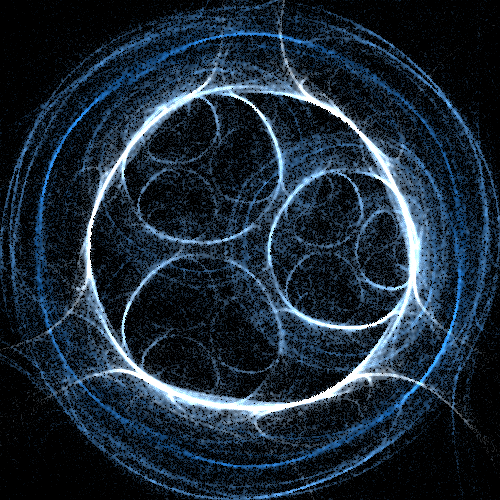
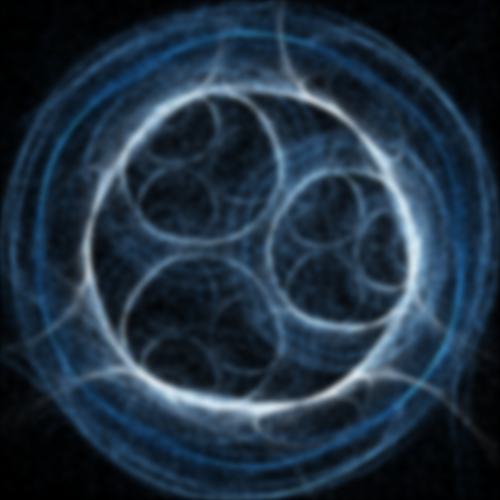
Fixed rendering system and got blur working

diff --git a/flame_fractal.py b/flame_fractal.py
@@ -89,8 +89,12 @@ class FlameFractal:
     #functionColors = [[0,120,255],[0, 255, 120], [255,120,0]]
 
     solutionSet = [] # verbatim points that chaos game returns
-
     points = []
+
+    image = []
+    filteredImage = []
+    #finalImage = []
+    
     adjustedpoints = []
 
     # NOTE: use ff. prefix to all functions added to generator commands (for
@@ -143,7 +147,35 @@ class FlameFractal:
         #return r*255, g*255, b*255
         return r, g, b
 
-    def plot(self, x, y, c):
+    def plot(self):
+        self.preparePlot()
+        print("Plotting solution...")
+
+        for point in self.solutionSet:
+            x = int(point[0])
+            y = int(point[1])
+            
+            if x < 0 or x > self.gen.imgWidth - 1 or y < 0 or y > self.gen.imgHeight - 1: continue
+            
+            self.plotPoint(int(point[0]), int(point[1]), point[2])
+
+    def solutionSetTransform(self):
+        #f = Function()
+        #f.a = 200
+        #f.d = 200
+        #f.v[0] = 1.
+
+        print("Transforming solution...")
+        for i in range(0, len(self.solutionSet)):
+            #x, y = f.run(self.solutionSet[i][0], self.solutionSet[i][1])
+            x = self.solutionSet[i][0] * 200 + 250
+            y = self.solutionSet[i][1] * 200 + 250
+            self.solutionSet[i][0] = x
+            self.solutionSet[i][1] = y
+
+        print("Affine transformation complete!")
+
+    def plotPoint(self, x, y, c):
         # check if already exists
         #for point in self.points:
             #if x == point[0] and y == point[1]:
@@ -153,6 +185,7 @@ class FlameFractal:
         #self.points.append([x, y, 1])
         color = self.colorMap(c)
         #print(str(color)) # DEBUG
+        #print("Plotting (" + str(x) + "," + str(y) + ")") # DEBUG
         self.points[y][x][0] += color[0]
         self.points[y][x][1] += color[1]
         self.points[y][x][2] += color[2]
@@ -186,10 +219,10 @@ class FlameFractal:
         g = 0
         b = 0
         
-        if y < len(self.points) and y >= 0 and x < len(self.points[y]) and x >= 0:
-            r = self.points[y][x][0]*factor
-            g = self.points[y][x][1]*factor
-            b = self.points[y][x][2]*factor
+        if y < len(self.image) and y >= 0 and x < len(self.image[y]) and x >= 0:
+            r = self.image[y][x][0]*factor
+            g = self.image[y][x][1]*factor
+            b = self.image[y][x][2]*factor
 
         return r, g, b
 
@@ -203,7 +236,7 @@ class FlameFractal:
 
         #print("original: " + str(self.points[y][x][2]))
 
-        original = [self.points[y][x][0], self.points[y][x][1], self.points[y][x][2]]
+        #original = [self.points[y][x][0], self.points[y][x][1], self.points[y][x][2]]
         #print("original: " + str(original))
 
         
@@ -230,12 +263,13 @@ class FlameFractal:
         #g = min(1., g)
         #b = min(1., b)
         
+        return r, g, b
 
-        self.adjustedpoints[y][x][0] = r
-        self.adjustedpoints[y][x][1] = g
-        self.adjustedpoints[y][x][2] = b
+        #self.adjustedpoints[y][x][0] = r
+        #self.adjustedpoints[y][x][1] = g
+        #self.adjustedpoints[y][x][2] = b
         
-        nonoriginal = [self.points[y][x][0], self.points[y][x][1], self.points[y][x][2]]
+        #nonoriginal = [self.points[y][x][0], self.points[y][x][1], self.points[y][x][2]]
         #print("points now: " + str(nonoriginal))
 
         #print("original: " + str(self.points[y][x][2]) + "adjusted: " + str(self.adjustedpoints[y][x][2]))
@@ -243,8 +277,8 @@ class FlameFractal:
         #if self.adjustedpoints[y][x][2] != self.points[y][x][2]:
             #print("Was a change at (" + str(x) + "," + str(y) + ")")
 
-        if self.adjustedpoints[y][x][2] == 0 and self.points[y][x][3] != 0:
-            print("WARNING - something was zeroed...")
+        #if self.adjustedpoints[y][x][2] == 0 and self.points[y][x][3] != 0:
+            #print("WARNING - something was zeroed...")
 
         #if r > 0 or g > 0 or b > 0:
             #print("setting (" + str(x) + "," + str(y) + ") to " + str(r) + " " + str(g) + " " + str(b)) # DEBUG
@@ -256,6 +290,15 @@ class FlameFractal:
             self.adjustedpoints[y][x][1] += g*factor
             self.adjustedpoints[y][x][2] += b*factor
 
+    def copy3DArray(self, array):
+        copy = []
+        for y in range(0, len(array)):
+            copy.append([])
+            for x in range(0, len(array[y])):
+                copy[y].append([])
+                for val in array[y][x]:
+                    copy[y][x].append(val)
+        return copy 
             
     def render(self, gamma=1.0, brightness=1.0):
         print("Rendering... (gamma = " + str(gamma) + ")") 
@@ -267,14 +310,14 @@ class FlameFractal:
         totalPoints = 0
         avgSpots = 0
 
-        self.adjustedpoints = []
+        #self.adjustedpoints = []
         
         for y in range(0, len(self.points)):
-            self.adjustedpoints.append([])
+            #self.adjustedpoints.append([])
             for x in range(0, len(self.points[y])):
-                self.adjustedpoints[y].append([])
-                for val in self.points[y][x]:
-                    self.adjustedpoints[y][x].append(val)
+                #self.adjustedpoints[y].append([])
+                #for val in self.points[y][x]:
+                    #self.adjustedpoints[y][x].append(val)
                 
                 count = self.points[y][x][3]
                 if count > 1:
@@ -288,55 +331,19 @@ class FlameFractal:
         print("Brightness scalar: " + str(brightnessScalar))
 
         print("Second pass...")
-        
 
-        #self.adjustedpoints = self.points[:]
-        #self.adjustedpoints = list(self.points)
-
-
-
-        
-        #matrix = self.calculateConvolutionMatrix(4,3)
-        matrix = self.calculateConvolutionMatrix(2,.84)
-        print(str(matrix)) # DEBUG
-        for y in range(0, len(self.points)):
-            for x in range(0, len(self.points[y])):
-                #count = self.points[y][x][3]
-                #r = self.points[y][x][0]
-                #g = self.points[y][x][1]
-                #b = self.points[y][x][2]
-
-                self.filterPoint(x, y, matrix)
-
-                
-
-                #self.adjustpoint(x, y - 2, r, g, b, .1)
-                #self.adjustpoint(x, y + 2, r, g, b, .1)
-                #self.adjustpoint(x + 2, y, r, g, b, .1)
-                #self.adjustpoint(x - 2, y, r, g, b, .1)
-                #self.adjustpoint(x, y - 1, r, g, b, .2)
-                #self.adjustpoint(x, y + 1, r, g, b, .2)
-                #self.adjustpoint(x + 1, y, r, g, b, .2)
-                #self.adjustpoint(x - 1, y, r, g, b, .2)
-                ##self.adjustpoint(x, y, r, g, b, .7)
-
-                #self.adjustedpoints[y][x][0] *= .7
-                #self.adjustedpoints[y][x][1] *= .7
-                #self.adjustedpoints[y][x][2] *= .7
-
-        print("Third pass...")
-                
+        self.image = self.copy3DArray(self.points)
         
         for y in range(0, len(self.points)):
             for x in range(0, len(self.points[y])):
                 count = self.points[y][x][3]
-                #r = self.points[y][x][0]
-                #g = self.points[y][x][1]
-                #b = self.points[y][x][2]
+                r = self.points[y][x][0]
+                g = self.points[y][x][1]
+                b = self.points[y][x][2]
                 
-                r = self.adjustedpoints[y][x][0]
-                g = self.adjustedpoints[y][x][1]
-                b = self.adjustedpoints[y][x][2]
+                #r = self.adjustedpoints[y][x][0]
+                #g = self.adjustedpoints[y][x][1]
+                #b = self.adjustedpoints[y][x][2]
 
                 
                 #print(str(x) + "," + str(y) + " - " + str(count))
@@ -372,8 +379,67 @@ class FlameFractal:
                     #print(str(count))
                     #value = int(math.log(count)*75)
                     #value = 255
-                    self.gen.imgArray[y][x] = np.array([r, g, b, 255])
+                    #self.gen.imgArray[y][x] = np.array([r, g, b, 255])
+                    self.image[y][x] = [r, g, b, 255]
+
+                    
                 #value = int(math.log(self.points[x][y] * 
+
+
+
+        print("Third pass...")
+
+        self.filteredImage = self.copy3DArray(self.image)
+
+        
+
+        #self.adjustedpoints = self.points[:]
+        #self.adjustedpoints = list(self.points)
+
+
+
+        
+        #matrix = self.calculateConvolutionMatrix(4,3)
+        #matrix = self.calculateConvolutionMatrix(2,.84)
+        matrix = self.calculateConvolutionMatrix(8,3)
+        print(str(matrix)) # DEBUG
+        for y in range(0, len(self.image)):
+            for x in range(0, len(self.image[y])):
+                #count = self.points[y][x][3]
+                #r = self.points[y][x][0]
+                #g = self.points[y][x][1]
+                #b = self.points[y][x][2]
+
+                r, g, b = self.filterPoint(x, y, matrix)
+
+                self.filteredImage[y][x][0] = r
+                self.filteredImage[y][x][1] = g
+                self.filteredImage[y][x][2] = b
+                
+
+                #self.adjustpoint(x, y - 2, r, g, b, .1)
+                #self.adjustpoint(x, y + 2, r, g, b, .1)
+                #self.adjustpoint(x + 2, y, r, g, b, .1)
+                #self.adjustpoint(x - 2, y, r, g, b, .1)
+                #self.adjustpoint(x, y - 1, r, g, b, .2)
+                #self.adjustpoint(x, y + 1, r, g, b, .2)
+                #self.adjustpoint(x + 1, y, r, g, b, .2)
+                #self.adjustpoint(x - 1, y, r, g, b, .2)
+                ##self.adjustpoint(x, y, r, g, b, .7)
+
+                #self.adjustedpoints[y][x][0] *= .7
+                #self.adjustedpoints[y][x][1] *= .7
+                #self.adjustedpoints[y][x][2] *= .7
+
+        print("Fourth pass...")
+                
+        for y in range(0, len(self.points)):
+            for x in range(0, len(self.points[y])):
+                r = self.filteredImage[y][x][0]
+                g = self.filteredImage[y][x][1]
+                b = self.filteredImage[y][x][2]
+
+                self.gen.imgArray[y][x] = np.array([r, g, b, 255])
         
                 
         print("Render complete!")
@@ -521,7 +587,11 @@ class FlameFractal:
     def finalTransform(self, x, y):
         #return x*500, y*500
         
-        return x*200 + 250, y*200 + 250
+        #return x*200 + 250, y*200 + 250
+
+        #return x + .5, y + .5
+        #return x + 1, y + 1
+        return x, y
     
         #return (x*500)+350, y*500
         #return x*3200, y*3200
@@ -592,22 +662,24 @@ class FlameFractal:
             # ignore the first 20 iterations to allow it time to converge to below size of a pixel
             if index > 20: 
 
-                #self.solutionSet.append([xf, yf, cf])
+                self.solutionSet.append([xf, yf, cf])
                 
-                pixels = self.determinePixel(xf, yf)
-                #print("Plotting (" + str(pixels[0]) + "," + str(pixels[1]) + ")...") # DEBUG
-                if pixels[0] < 0 or pixels[0] > self.gen.imgWidth - 1 or pixels[1] < 0 or pixels[1] > self.gen.imgHeight - 1:
-                    continue
-                #self.gen.imgArray[pixels[1]][pixels[0]] = np.array([255,255,255,255])
-                self.plot(pixels[0], pixels[1], cf)
+                #pixels = self.determinePixel(xf, yf)
+                ##print("Plotting (" + str(pixels[0]) + "," + str(pixels[1]) + ")...") # DEBUG
+                #if pixels[0] < 0 or pixels[0] > self.gen.imgWidth - 1 or pixels[1] < 0 or pixels[1] > self.gen.imgHeight - 1:
+                    #continue
+                ##self.gen.imgArray[pixels[1]][pixels[0]] = np.array([255,255,255,255])
+                #self.plot(pixels[0], pixels[1], cf)
 
             if index % displaystep == 0: print("Completed iteration " + str(index))
 
-        print("Flame fractal set solution plotted!")
+        print("Flame fractal set solution obtained!")
 
         for c in range(0, len(functionCounts)):
             print(str(c) + " - " + str(functionCounts[c]))
         
+        self.solutionSetTransform()
+        self.plot()
         self.render(2.2)
         #self.render()
     
